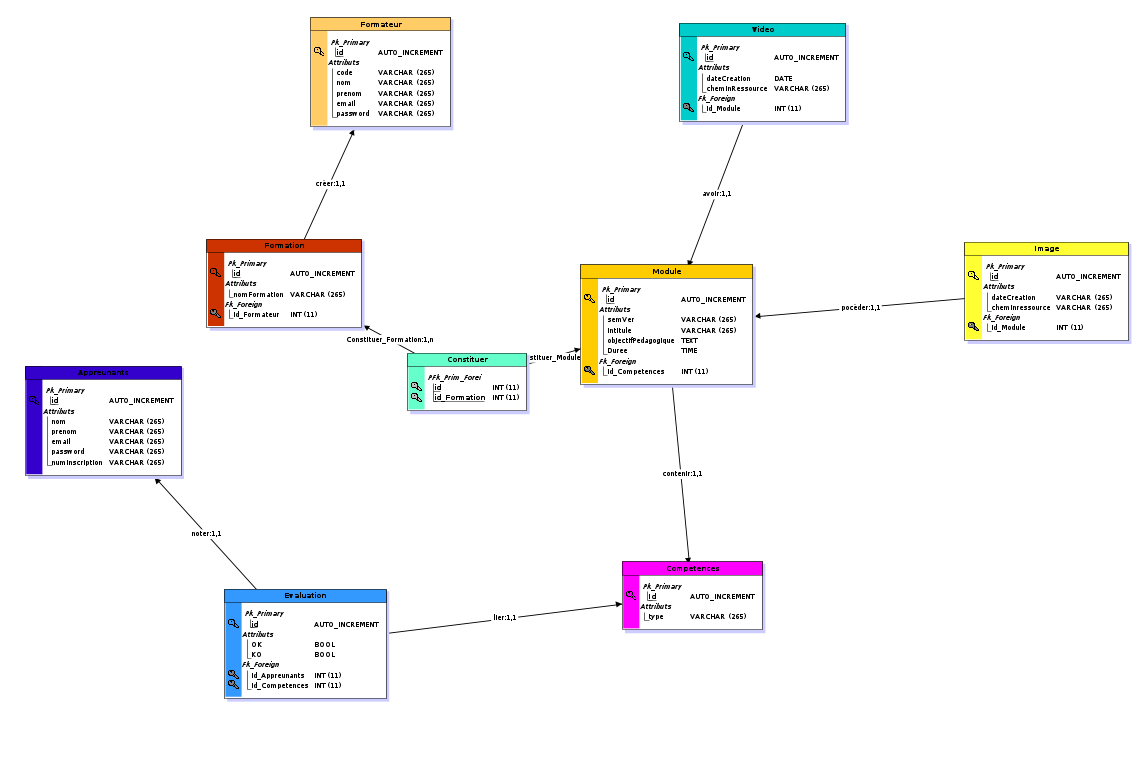
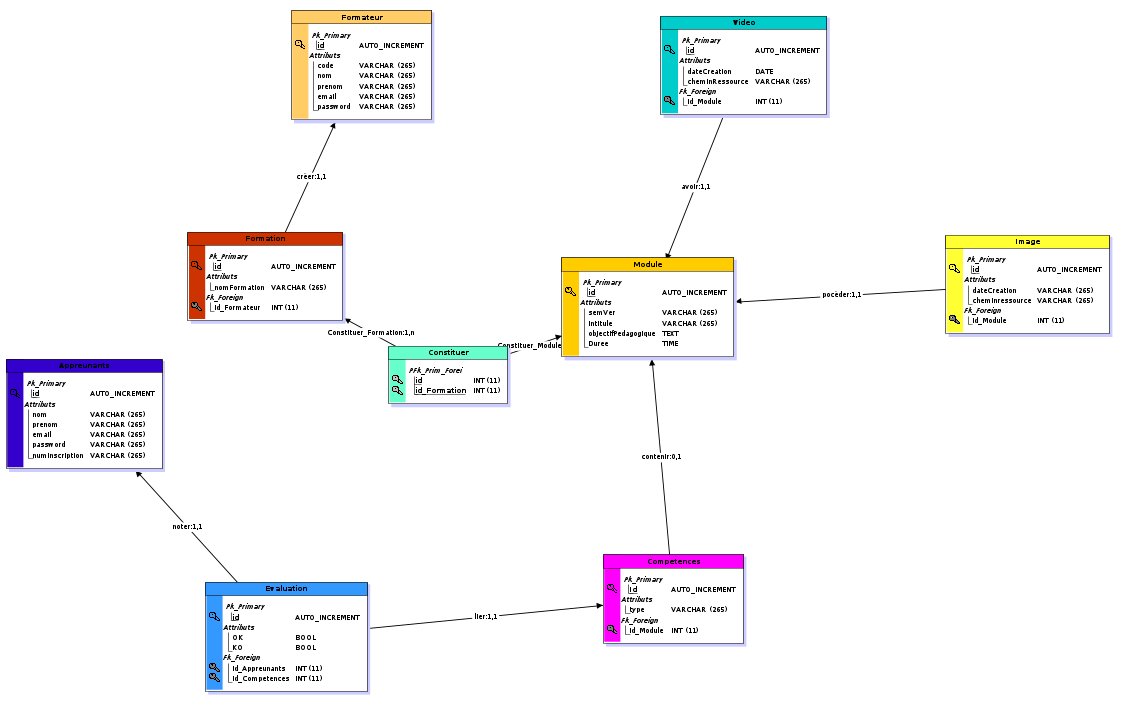
fix typo

diff --git a/README.md b/README.md
@@ -113,6 +113,52 @@
 
 
 #------------------------------------------------------------
+# Table: Module
+#------------------------------------------------------------
+
+CREATE TABLE Module(
+        id                  Int  Auto_increment  NOT NULL ,
+        semVer              Varchar (265) NOT NULL ,
+        intitule            Varchar (265) NOT NULL ,
+        objectifPedagogique Text NOT NULL ,
+        Duree               Time NOT NULL
+	,CONSTRAINT Module_PK PRIMARY KEY (id)
+)ENGINE=InnoDB;
+
+
+#------------------------------------------------------------
+# Table: Video
+#------------------------------------------------------------
+
+CREATE TABLE Video(
+        id              Int  Auto_increment  NOT NULL ,
+        dateCreation    Date NOT NULL ,
+        cheminRessource Varchar (265) NOT NULL ,
+        id_Module       Int NOT NULL
+	,CONSTRAINT Video_PK PRIMARY KEY (id)
+
+	,CONSTRAINT Video_Module_FK FOREIGN KEY (id_Module) REFERENCES Module(id)
+	,CONSTRAINT Video_Module_AK UNIQUE (id_Module)
+)ENGINE=InnoDB;
+
+
+#------------------------------------------------------------
+# Table: Image
+#------------------------------------------------------------
+
+CREATE TABLE Image(
+        id              Int  Auto_increment  NOT NULL ,
+        dateCreation    Varchar (265) NOT NULL ,
+        cheminressource Varchar (265) NOT NULL ,
+        id_Module       Int NOT NULL
+	,CONSTRAINT Image_PK PRIMARY KEY (id)
+
+	,CONSTRAINT Image_Module_FK FOREIGN KEY (id_Module) REFERENCES Module(id)
+	,CONSTRAINT Image_Module_AK UNIQUE (id_Module)
+)ENGINE=InnoDB;
+
+
+#------------------------------------------------------------
 # Table: Formateur
 #------------------------------------------------------------
 
@@ -161,58 +207,12 @@ CREATE TABLE Appreunants(
 #------------------------------------------------------------
 
 CREATE TABLE Competences(
-        Id   Int  Auto_increment  NOT NULL ,
-        type Varchar (265) NOT NULL
+        Id        Int  Auto_increment  NOT NULL ,
+        type      Varchar (265) NOT NULL ,
+        id_Module Int
 	,CONSTRAINT Competences_PK PRIMARY KEY (Id)
-)ENGINE=InnoDB;
 
-
-#------------------------------------------------------------
-# Table: Module
-#------------------------------------------------------------
-
-CREATE TABLE Module(
-        id                  Int  Auto_increment  NOT NULL ,
-        semVer              Varchar (265) NOT NULL ,
-        intitule            Varchar (265) NOT NULL ,
-        objectifPedagogique Text NOT NULL ,
-        Duree               Time NOT NULL ,
-        Id_Competences      Int NOT NULL
-	,CONSTRAINT Module_PK PRIMARY KEY (id)
-
-	,CONSTRAINT Module_Competences_FK FOREIGN KEY (Id_Competences) REFERENCES Competences(Id)
-)ENGINE=InnoDB;
-
-
-#------------------------------------------------------------
-# Table: Video
-#------------------------------------------------------------
-
-CREATE TABLE Video(
-        id              Int  Auto_increment  NOT NULL ,
-        dateCreation    Date NOT NULL ,
-        cheminRessource Varchar (265) NOT NULL ,
-        id_Module       Int NOT NULL
-	,CONSTRAINT Video_PK PRIMARY KEY (id)
-
-	,CONSTRAINT Video_Module_FK FOREIGN KEY (id_Module) REFERENCES Module(id)
-	,CONSTRAINT Video_Module_AK UNIQUE (id_Module)
-)ENGINE=InnoDB;
-
-
-#------------------------------------------------------------
-# Table: Image
-#------------------------------------------------------------
-
-CREATE TABLE Image(
-        id              Int  Auto_increment  NOT NULL ,
-        dateCreation    Varchar (265) NOT NULL ,
-        cheminressource Varchar (265) NOT NULL ,
-        id_Module       Int NOT NULL
-	,CONSTRAINT Image_PK PRIMARY KEY (id)
-
-	,CONSTRAINT Image_Module_FK FOREIGN KEY (id_Module) REFERENCES Module(id)
-	,CONSTRAINT Image_Module_AK UNIQUE (id_Module)
+	,CONSTRAINT Competences_Module_FK FOREIGN KEY (id_Module) REFERENCES Module(id)
 )ENGINE=InnoDB;
 
 
@@ -245,6 +245,7 @@ CREATE TABLE Constituer(
 	,CONSTRAINT Constituer_Module_FK FOREIGN KEY (id) REFERENCES Module(id)
 	,CONSTRAINT Constituer_Formation0_FK FOREIGN KEY (id_Formation) REFERENCES Formation(id)
 )ENGINE=InnoDB;
+
 
 
 ```
